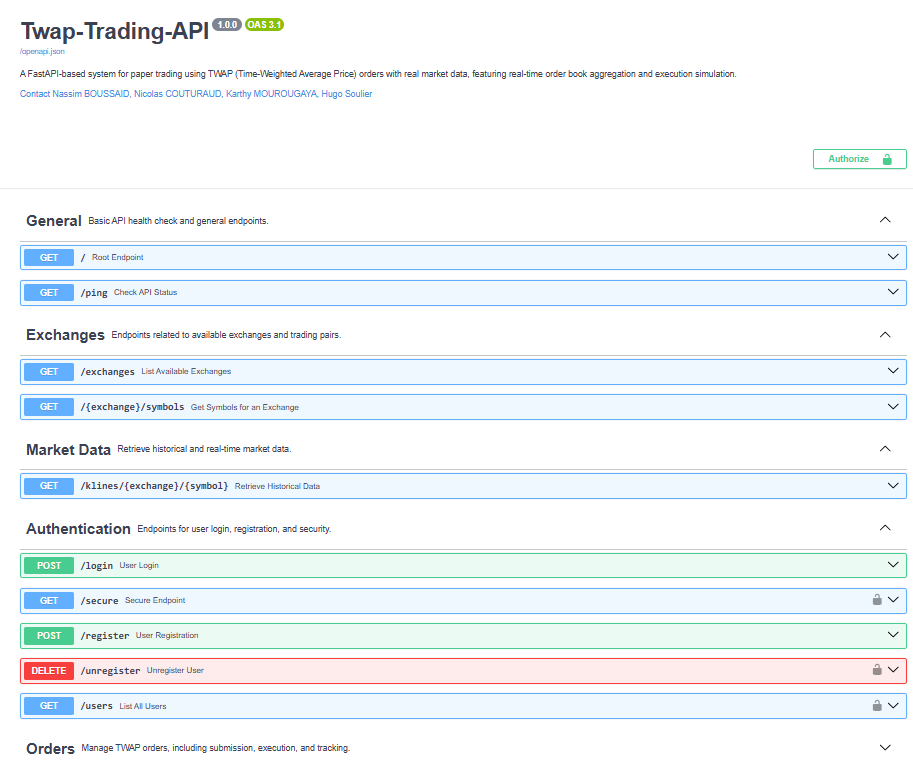
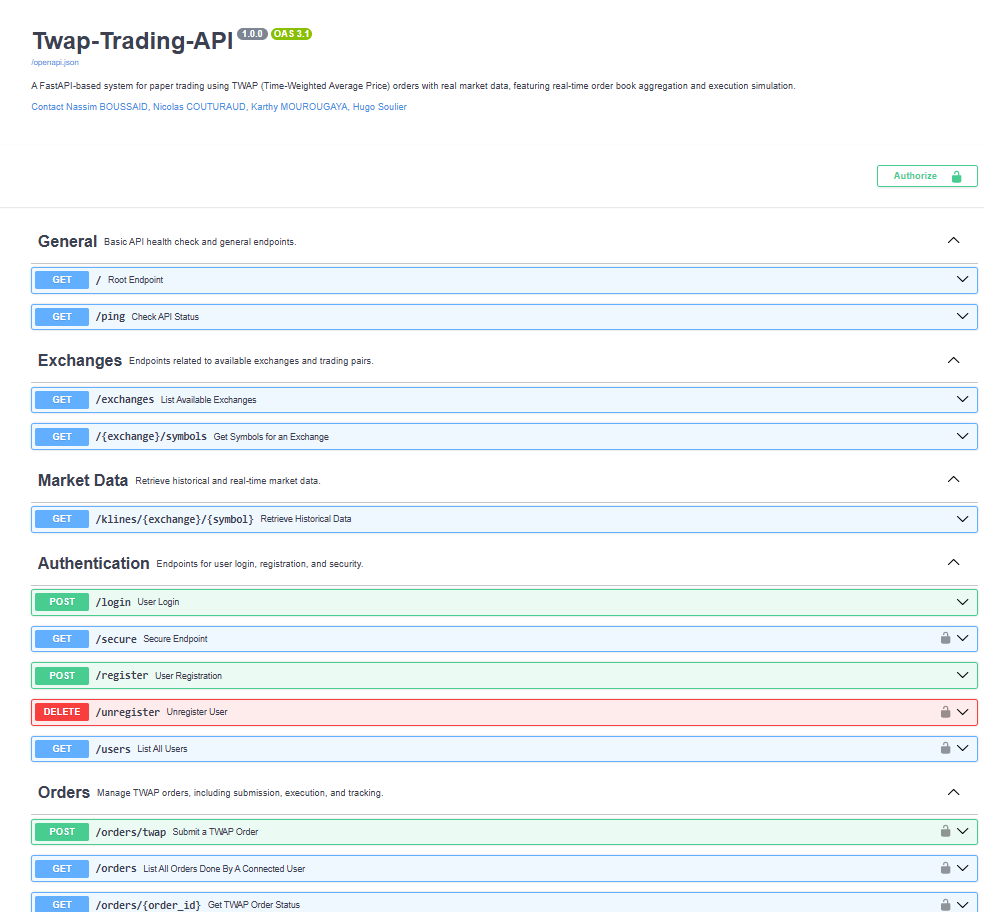
Swagger changes

Changed region(s): [[0.0, 0.2402, 1.0, 1.0], [0.0307, 0.0, 0.7974, 0.1501], [0.8894, 0.1802, 1.0, 0.2402]]

diff --git a/twap_trading_api/Server_/Server.py b/twap_trading_api/Server_/Server.py
@@ -94,7 +94,8 @@ async def ping():
                  "content": {"application/json": {"example": {
                      "exchanges": ["Binance", "Bybit", "Coinbase", "Kucoin"]
                  }}}
-             }
+             },
+             422: {"description": "Validation Error"}
          }
          )
 async def get_exchanges():
@@ -115,7 +116,8 @@ async def get_exchanges():
                      "symbols": ["BTCUSDT", "ETHUSDT", "BNBUSDT"]
                  }}}
              },
-             404: {"description": "Exchange not available"}
+             404: {"description": "Exchange not available"},
+             422: {"description": "Validation Error"}
          }
          )
 async def get_symbols(exchange: str):
@@ -154,7 +156,8 @@ async def get_symbols(exchange: str):
                      }
                  }
              },
-             404: {"description": "Exchange or Trading Pair Not Found"}
+             404: {"description": "Exchange or Trading Pair Not Found"},
+             422: {"description": "Validation Error"}
          }
          )
 async def get_historical_data(exchange: str, symbol: str, interval: str, start_time: str, end_time: str):
@@ -361,7 +364,8 @@ async def lifespan():
                       "token_type": "bearer"
                   }}}
               },
-              401: {"description": "Invalid username or password"}
+              401: {"description": "Invalid username or password"},
+              422: {"description": "Validation Error"}
           }
           )
 async def login(request: LoginRequest):
@@ -417,7 +421,8 @@ async def secure_endpoint(username: str = Depends(verify_token)):
                       "message": "User correctly registered"
                   }}}
               },
-              400: {"description": "Username already exists"}
+              400: {"description": "Username already exists"},
+              422: {"description": "Validation Error"}
           }
           )
 async def register(request: RegisterRequest):
@@ -557,6 +562,7 @@ def update_order_state(twap):
                       }
                   }
               },
+              422: {"description": "Validation Error"},
               500: {
                   "description": "Internal Server Error",
                   "content": {
@@ -651,7 +657,8 @@ async def submit_twap_order(
                      ]
                  }}}
              },
-             403: {"description": "Not authorized"}
+             403: {"description": "Not authorized"},
+             422: {"description": "Validation Error"}
          }
          )
 async def list_all_orders(order_id: str = None, username: str = Depends(verify_token)):
@@ -684,7 +691,8 @@ async def list_all_orders(order_id: str = None, username: str = Depends(verify_t
                  }}}
              },
              404: {"description": "Order not found"},
-             403: {"description": "Not authorized"}
+             403: {"description": "Not authorized"},
+             422: {"description": "Validation Error"}
          }
          )
 async def get_order_status(order_id: str, username: str = Depends(verify_token)):
